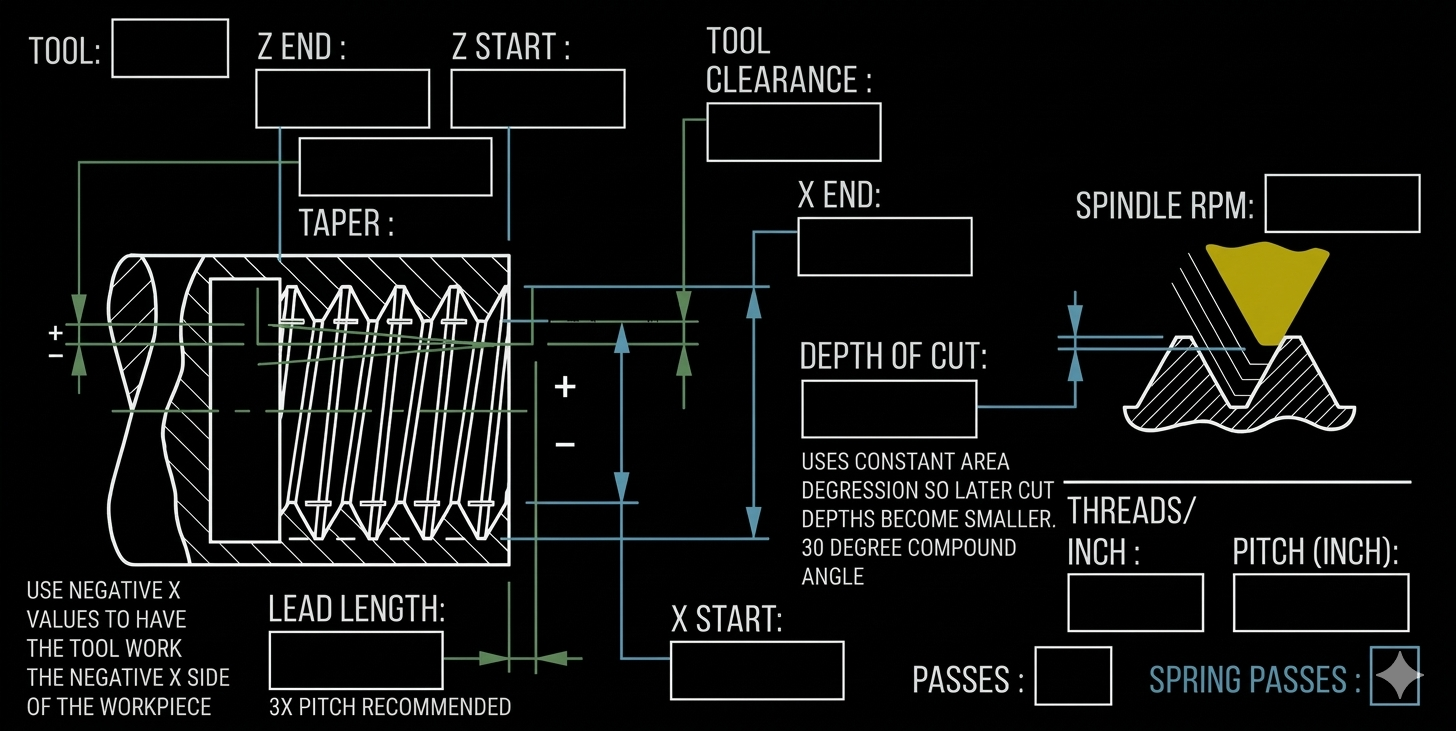
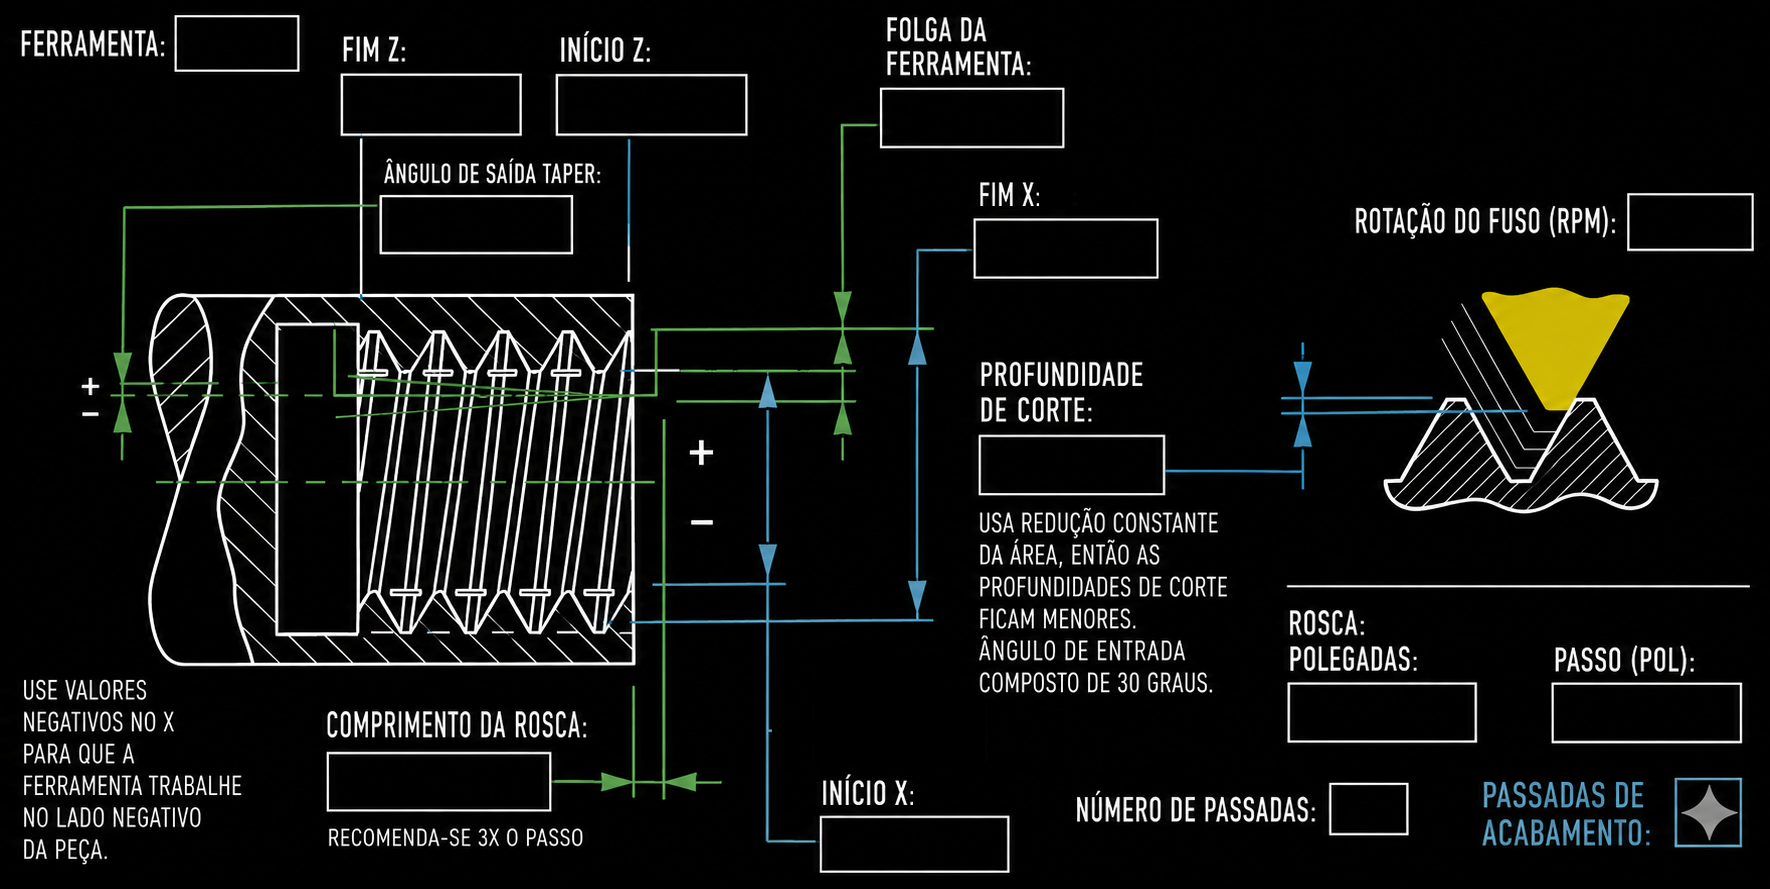
Desenhos em PT-BR: rosca interna, furacao e chanfro externo
Tres desenhos novos instalados e com os retangulos remedidos (a proporcao
mudou nos tres: furacao e chanfro vieram em 16:9, 2560x1440).

Na rosca INTERNA a arte veio com o X trocado: o campo de cima dizia
"INICIO X" onde e' o FIM X, e apareceu uma caixa a mais embaixo ("X START"
e "FIM X" empilhados). Corrigi na propria imagem, reaproveitando os
rotulos que ja existiam nela — troquei os dois de lugar (assim a fonte e o
tamanho batem) e apaguei a caixa sobrando com o traco de chamada dela.
Agora e' FIM X em cima e INICIO X embaixo, como no desenho original.

Cada painel foi renderizado com o QSS carregado pra conferir que todo
campo cai dentro da sua caixa.

Changed region(s): [[0.0, 0.0, 0.989, 0.9932], [0.7418, 0.2107, 1.0, 0.301]]

diff --git a/torno_cam_ui/thread_panel.py b/torno_cam_ui/thread_panel.py
@@ -54,19 +54,20 @@ VARIANTES = {
         "leadInLength": (0.17702, 0.89480, 0.12754, 0.05665),
         "passes":       (0.72128, 0.92139, 0.03903, 0.05434),
     }),
-    "INTERNAL": ("thread-internal-bg.png", 1456.0 / 731.0, {
-        "toolNumber":   (0.07761, 0.02736, 0.07830, 0.07661),
-        "zEnd":         (0.17651, 0.09576, 0.11745, 0.07798),
-        "zStart":       (0.31044, 0.09576, 0.11745, 0.07661),
-        "clearance":    (0.48626, 0.14090, 0.11745, 0.07798),
-        "xEnd":         (0.54876, 0.29822, 0.11813, 0.07661),
-        "spindleRPM":   (0.86951, 0.23940, 0.10440, 0.07661),
-        "depthOfCut":   (0.55151, 0.52120, 0.11813, 0.07524),
-        "tpi":          (0.73420, 0.78523, 0.09135, 0.07661),
-        "pitch":        (0.84753, 0.78523, 0.11882, 0.07661),
-        "xStart":       (0.46085, 0.87825, 0.11745, 0.07661),
-        "leadInLength": (0.18544, 0.86457, 0.11745, 0.07661),
-        "passes":       (0.71154, 0.88509, 0.05082, 0.07661),
+    # desenho em PT-BR (1770x889). O X de cima e' o FIM X e o de baixo o INICIO X
+    "INTERNAL": ("thread-internal-bg.png", 1770.0 / 889.0, {
+        "toolNumber":   (0.09887, 0.01687, 0.06949, 0.06187),
+        "zEnd":         (0.19266, 0.08324, 0.10113, 0.06749),
+        "zStart":       (0.31412, 0.08324, 0.10791, 0.06749),
+        "clearance":    (0.49718, 0.09899, 0.10395, 0.06524),
+        "spindleRPM":   (0.91921, 0.21710, 0.07119, 0.06299),
+        "xEnd":         (0.55028, 0.24634, 0.10339, 0.06524),
+        "depthOfCut":   (0.55311, 0.48931, 0.10452, 0.06524),
+        "tpi":          (0.72768, 0.76828, 0.10621, 0.06524),
+        "pitch":        (0.87627, 0.76828, 0.10734, 0.06524),
+        "leadInLength": (0.18475, 0.84589, 0.12599, 0.06524),
+        "passes":       (0.75085, 0.88076, 0.04463, 0.05624),
+        "xStart":       (0.46328, 0.91789, 0.10678, 0.06187),
     }),
 }
 

diff --git a/torno_cam_ui/drill_panel.py b/torno_cam_ui/drill_panel.py
@@ -19,18 +19,18 @@ from .panels import WCS, DIRS, COOL
 from torno_cam.engine import furacao
 
 # aspect ratio do container no app (igual ao da imagem: 1440x720)
-DRILL_AR = 1440.0 / 720.0
+DRILL_AR = 2560.0 / 1440.0
 
 # Retangulos MEDIDOS no proprio drill-bg.png (fracao da imagem: x, y, larg, alt).
 FIELDS = [
-    ("toolNumber",    (0.07361, 0.01806, 0.07917, 0.07778), 2, dict(integer=True, minimum=1)),
-    ("zStart",        (0.32153, 0.05833, 0.11875, 0.07778), 6, {}),
-    ("toolClearance", (0.46528, 0.15972, 0.11875, 0.07778), 5, dict(minimum=0.0)),
-    ("peckDepth",     (0.15208, 0.23472, 0.11875, 0.07639), 5, dict(minimum=0.0)),
-    ("drillDiameter", (0.51528, 0.52500, 0.10208, 0.09028), 5, dict(minimum=0.001)),
-    ("roughingSFM",   (0.87222, 0.27361, 0.10694, 0.07917), 4, dict(integer=True, minimum=1)),
-    ("dwellSeconds",  (0.87153, 0.54167, 0.10694, 0.07917), 4, dict(minimum=0.0)),
-    ("zEnd",          (0.20208, 0.85833, 0.12014, 0.08056), 7, {}),
+    ("toolNumber",    (0.13281, 0.01528, 0.08984, 0.07153), 2, dict(integer=True, minimum=1)),
+    ("zStart",        (0.35781, 0.05347, 0.11797, 0.07292), 6, {}),
+    ("toolClearance", (0.50000, 0.15069, 0.11914, 0.07222), 5, dict(minimum=0.0)),
+    ("peckDepth",     (0.16914, 0.21806, 0.11719, 0.07292), 5, dict(minimum=0.0)),
+    ("roughingSFM",   (0.88242, 0.25278, 0.10391, 0.07500), 4, dict(integer=True, minimum=1)),
+    ("drillDiameter", (0.54961, 0.48125, 0.10703, 0.08611), 5, dict(minimum=0.001)),
+    ("dwellSeconds",  (0.88203, 0.49444, 0.10430, 0.07431), 4, dict(minimum=0.0)),
+    ("zEnd",          (0.21719, 0.80000, 0.12695, 0.07500), 7, {}),
 ]
 
 TOGGLE = ("useCannedCycle", 8.0, 65.0, u"GERAR CICLO", "#4caf50")

diff --git a/torno_cam_ui/chamfer_panel.py b/torno_cam_ui/chamfer_panel.py
@@ -35,15 +35,16 @@ MAXC = {"toolNumber": 2, "chamferAngle": 3, "roughingDOC": 5,
 
 # variante -> (imagem, aspect do container, {campo: retangulo medido})
 VARIANTES = {
-    "CHAMFER_OD": ("chamfer-od-bg.png", 1456.0 / 735.0, {
-        "toolNumber":    (0.14492, 0.02585, 0.04739, 0.07891),
-        "zEnd":          (0.18407, 0.11973, 0.12157, 0.07891),
-        "zStart":        (0.31593, 0.11973, 0.12157, 0.07891),
-        "finishDOC":     (0.85027, 0.17823, 0.12225, 0.07891),
-        "roughingDOC":   (0.57005, 0.25034, 0.12157, 0.07755),
-        "chamferAngle":  (0.38736, 0.37551, 0.10852, 0.07891),
-        "x":             (0.04739, 0.46122, 0.12157, 0.08027),
-        "toolClearance": (0.57005, 0.48435, 0.12157, 0.07891),
+    # desenho em PT-BR (2560x1440), retangulos remedidos
+    "CHAMFER_OD": ("chamfer-od-bg.png", 2560.0 / 1440.0, {
+        "toolNumber":    (0.12578, 0.02569, 0.08906, 0.06944),
+        "zEnd":          (0.23203, 0.12292, 0.11094, 0.06597),
+        "zStart":        (0.35508, 0.12292, 0.11367, 0.06597),
+        "finishDOC":     (0.85469, 0.17014, 0.11836, 0.07083),
+        "roughingDOC":   (0.58555, 0.23264, 0.11758, 0.07222),
+        "chamferAngle":  (0.41484, 0.34861, 0.11250, 0.07083),
+        "x":             (0.04961, 0.43194, 0.12422, 0.07361),
+        "toolClearance": (0.58555, 0.45694, 0.11758, 0.07153),
     }),
     "CHAMFER_ID": ("chamfer-id-bg.png", 1445.0 / 720.0, {
         "toolNumber":    (0.14385, 0.00972, 0.06570, 0.08056),
